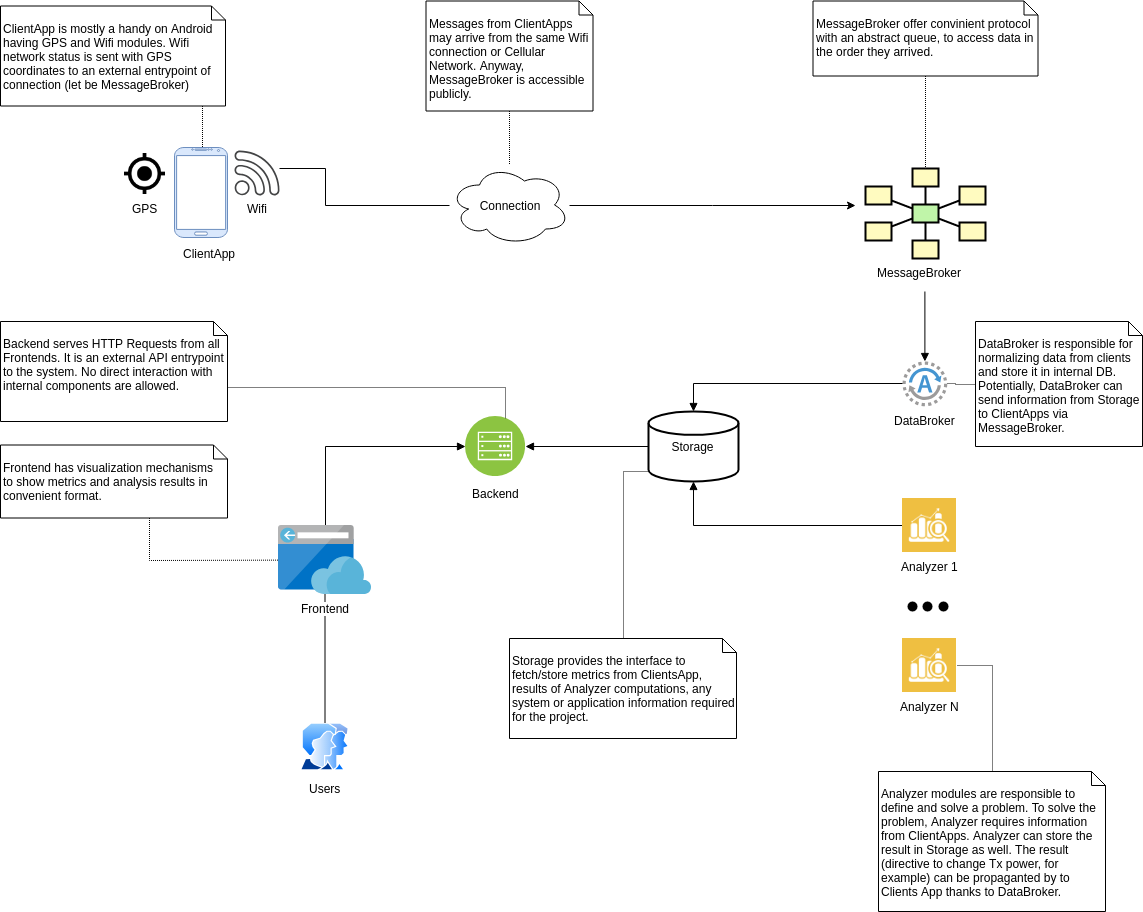
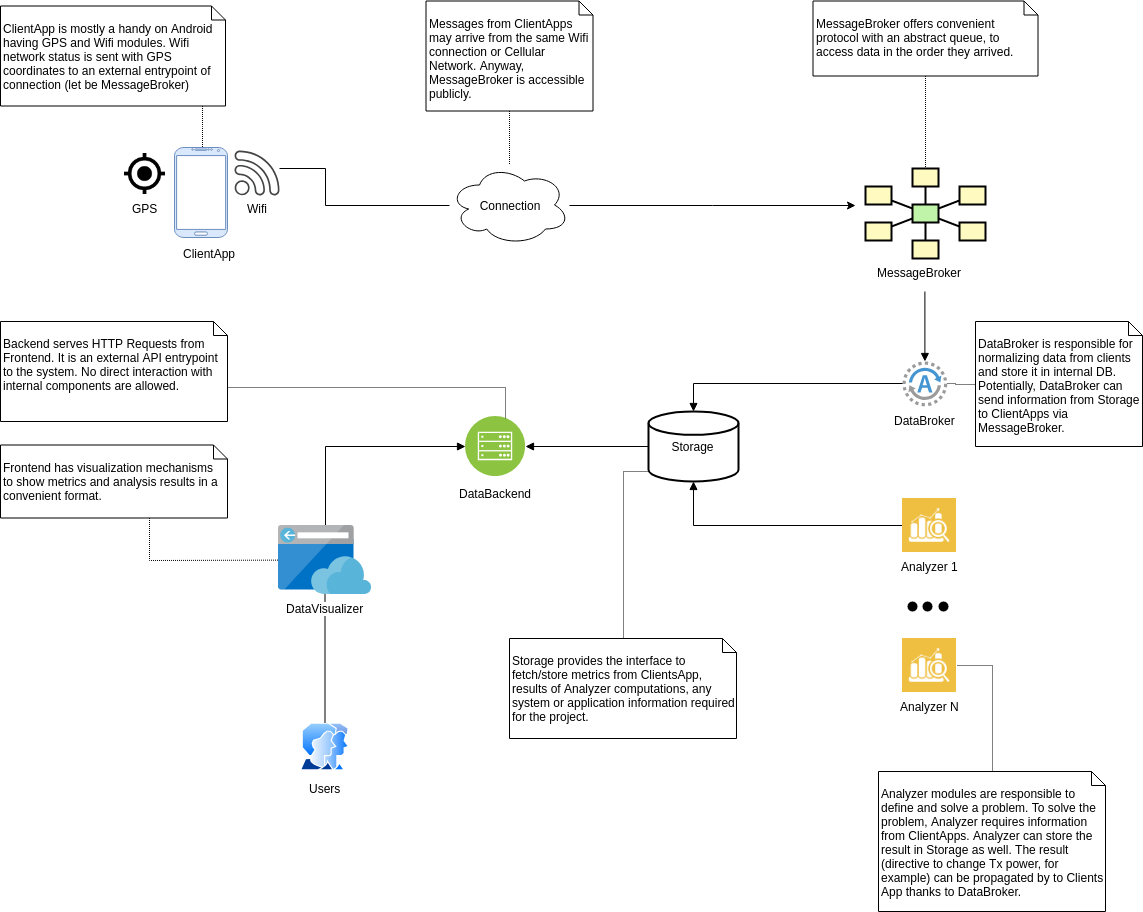
New naming for the project's components.

diff --git a/docs/components/README.md b/docs/components/README.md
@@ -8,12 +8,13 @@ In this section, we describe our components of the system, their functionality, 
 
 ## Current components
 
-- Client Application
-- Client connections broker
-- Data Broker
-- Storage
-- Visual Backend
-- Visual Frontend 
+- Client Telemetry Data Sender -  [ClientApp](ClientApp.md)
+- Client Message Broker -  [MessageBroker](MessageBroker.md) 
+- Medium Data Broker - [DataBroker](DataBroker.md) 
+- Storage Component - [Storage](Storage.md)
+- Telemetry Data Analyzer - [Analyzer](Analyzer.md)
+- Integration Backend Component for Data Access - [DataBackend](DataBackend.md)
+- Visualization Component - [DataVisualizer](DataVisualizer.md)
 
 
 

diff --git a/docs/components/Analyzer.md b/docs/components/Analyzer.md
@@ -1,0 +1,14 @@
+# Analyzer
+
+## Using technologies
+
+- Python
+
+## Description
+
+
+Analyzer modules are responsible to define and solve a problem. 
+To solve the problem, Analyzer requires information from ClientApps. 
+Analyzer can store the result in Storage as well. 
+The result (directive to change Tx power, for example) can be propagated by 
+to Clients App thanks to DataBroker.

diff --git a/docs/data_structures/README.md b/docs/data_structures/README.md
@@ -4,4 +4,4 @@ In this section, we describe internals about data, how it's processed, stored.
 
 ## Structures:
 
-- Telemetry Data between Clients and ClientBroker - [here](Telemetry.md)
+- Telemetry Data format between ClientApp's and DataBroker - [here](Telemetry.md)

diff --git a/docs/schemes/architecture/README.md b/docs/schemes/architecture/README.md
@@ -3,7 +3,3 @@
 ## Architecture Diagram
 
 ![Architecture UML](ArchitectureDiagram-Achitecture%20Diagram.png)
-
-## Arch with Technologies used
-
-![Arch with technologies](ArchitectureDiagram-Using%20Techologies.png)
